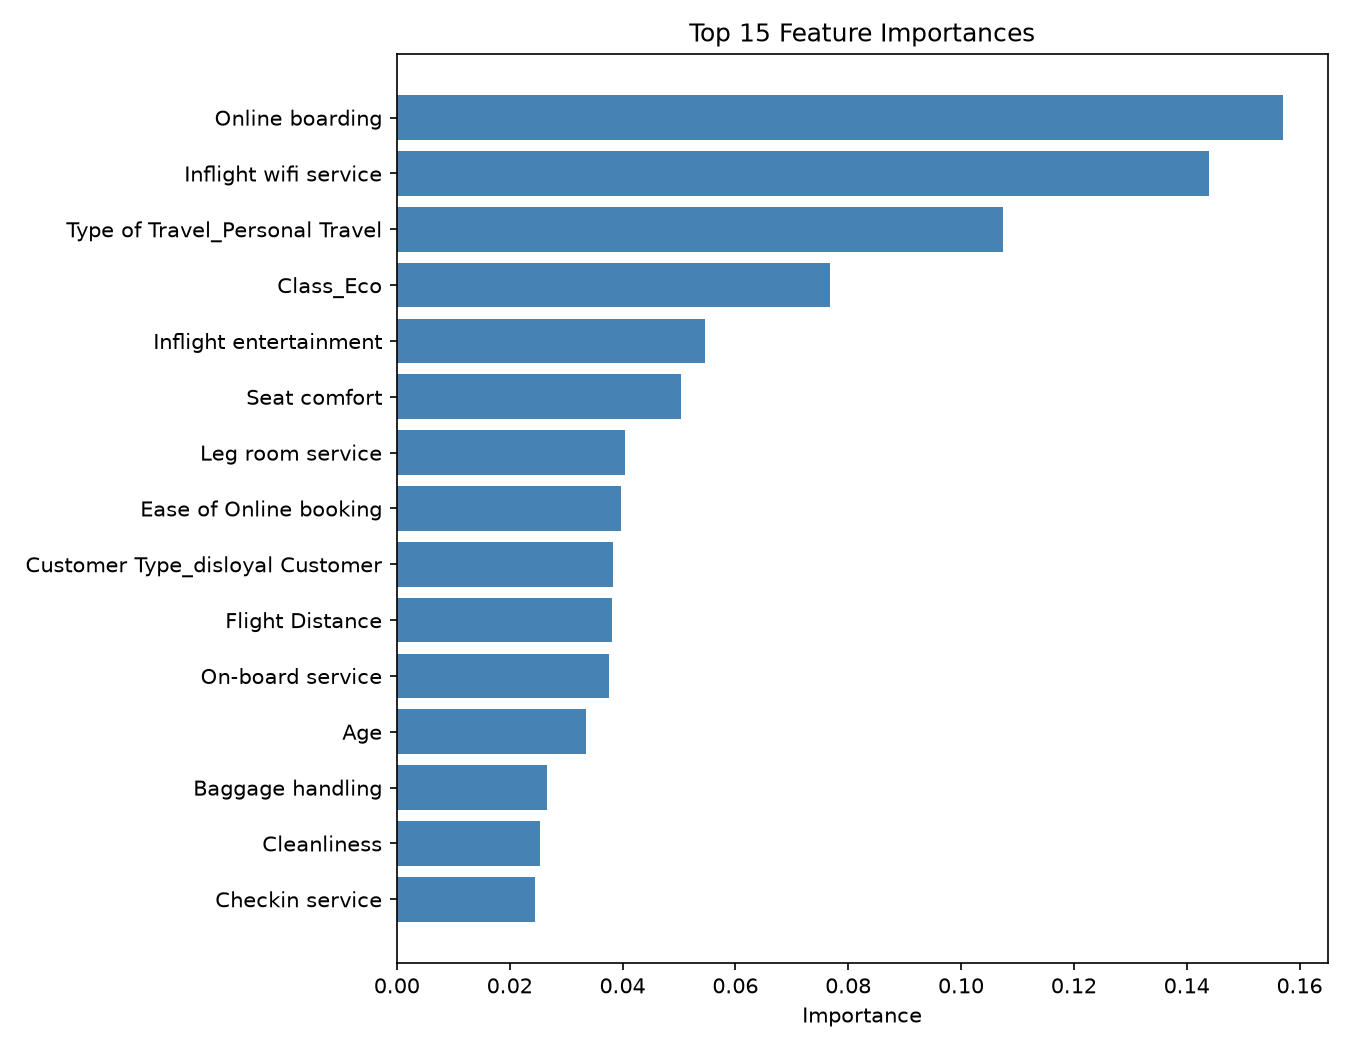
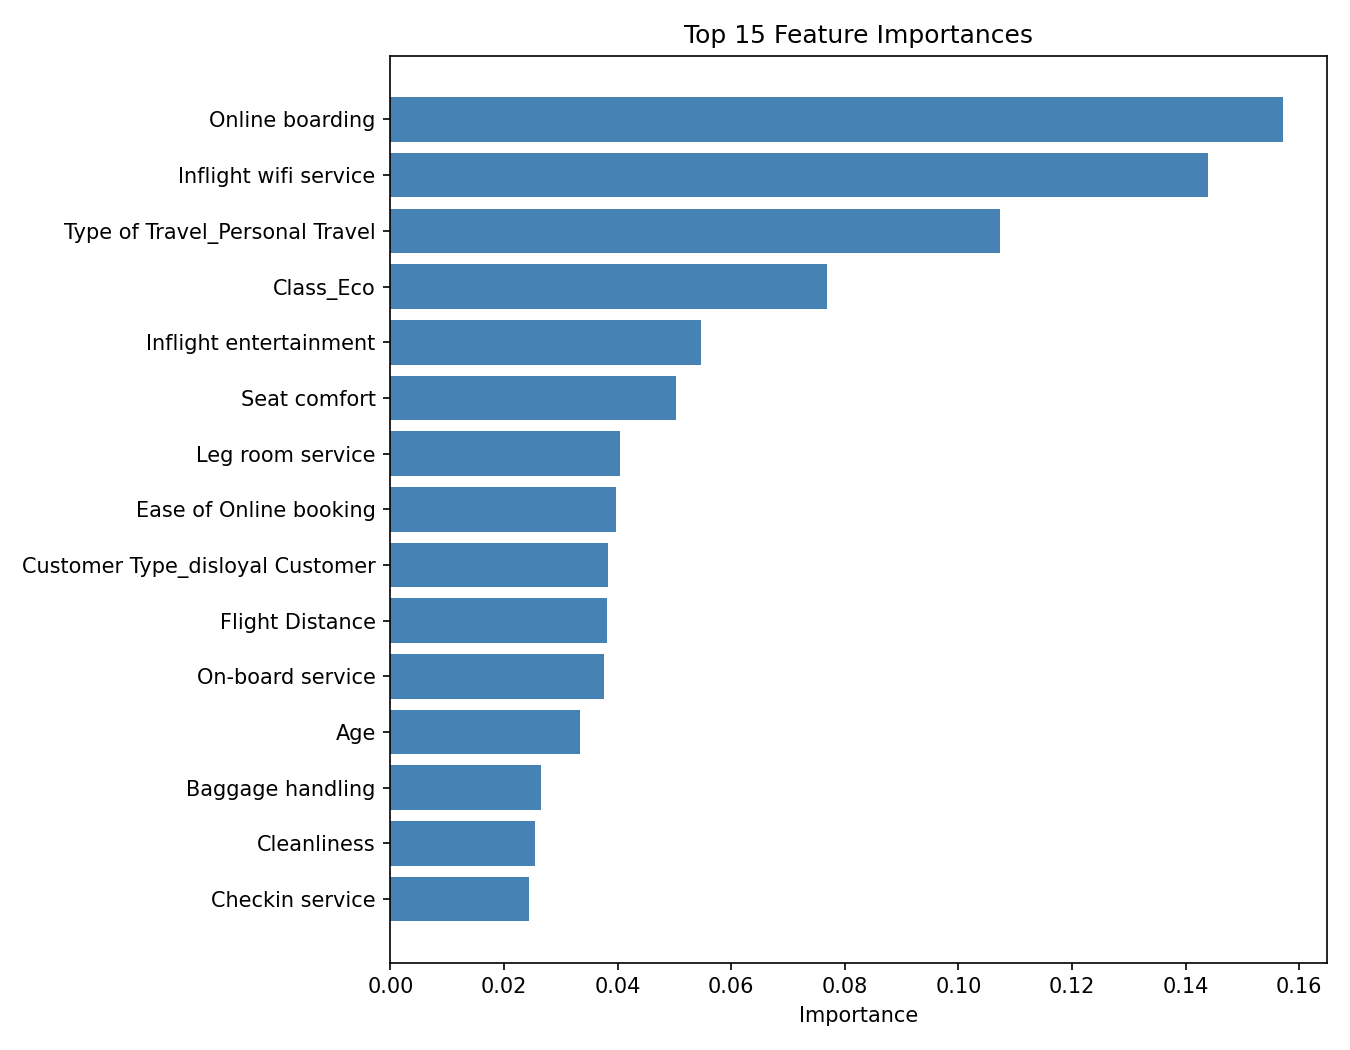
add roll number

diff --git a/airline-frontend/src/app/app.html b/airline-frontend/src/app/app.html
@@ -2,7 +2,7 @@
 <div class="page">
   <header class="hero">
     <div class="brand">AIRLINE ANALYTICS</div>
-    <h1>Passenger Satisfaction Predictor</h1>
+    <h1>Passenger Satisfaction Predictor 232068</h1>
     <p>Explore how passenger experience and flight details relate to satisfaction.</p>
     <div class="model-tag">Random Forest Machine Learning Model</div>
   </header>
